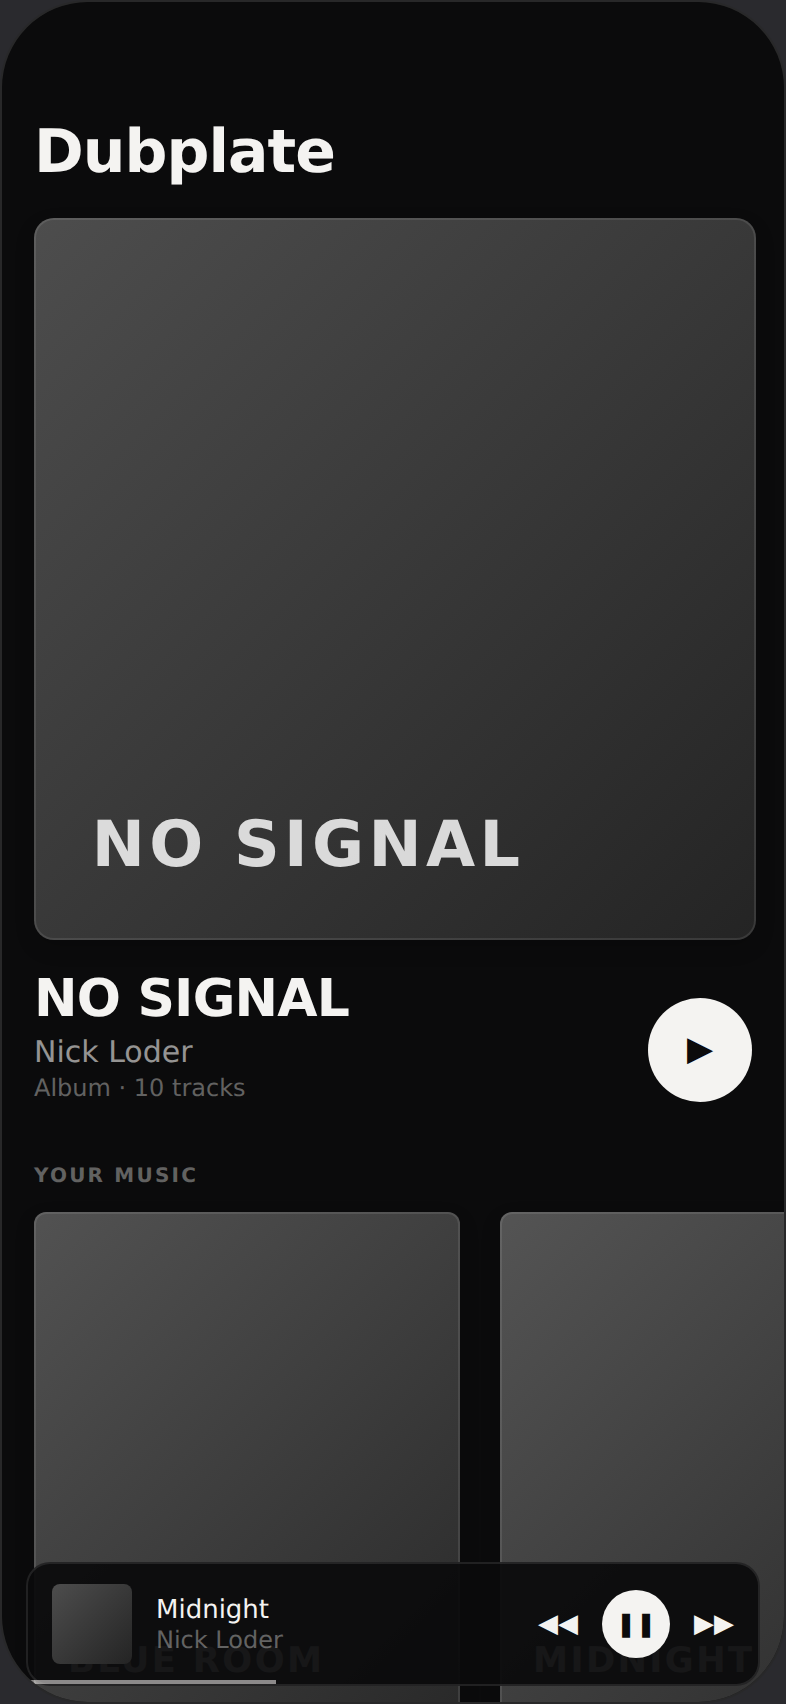
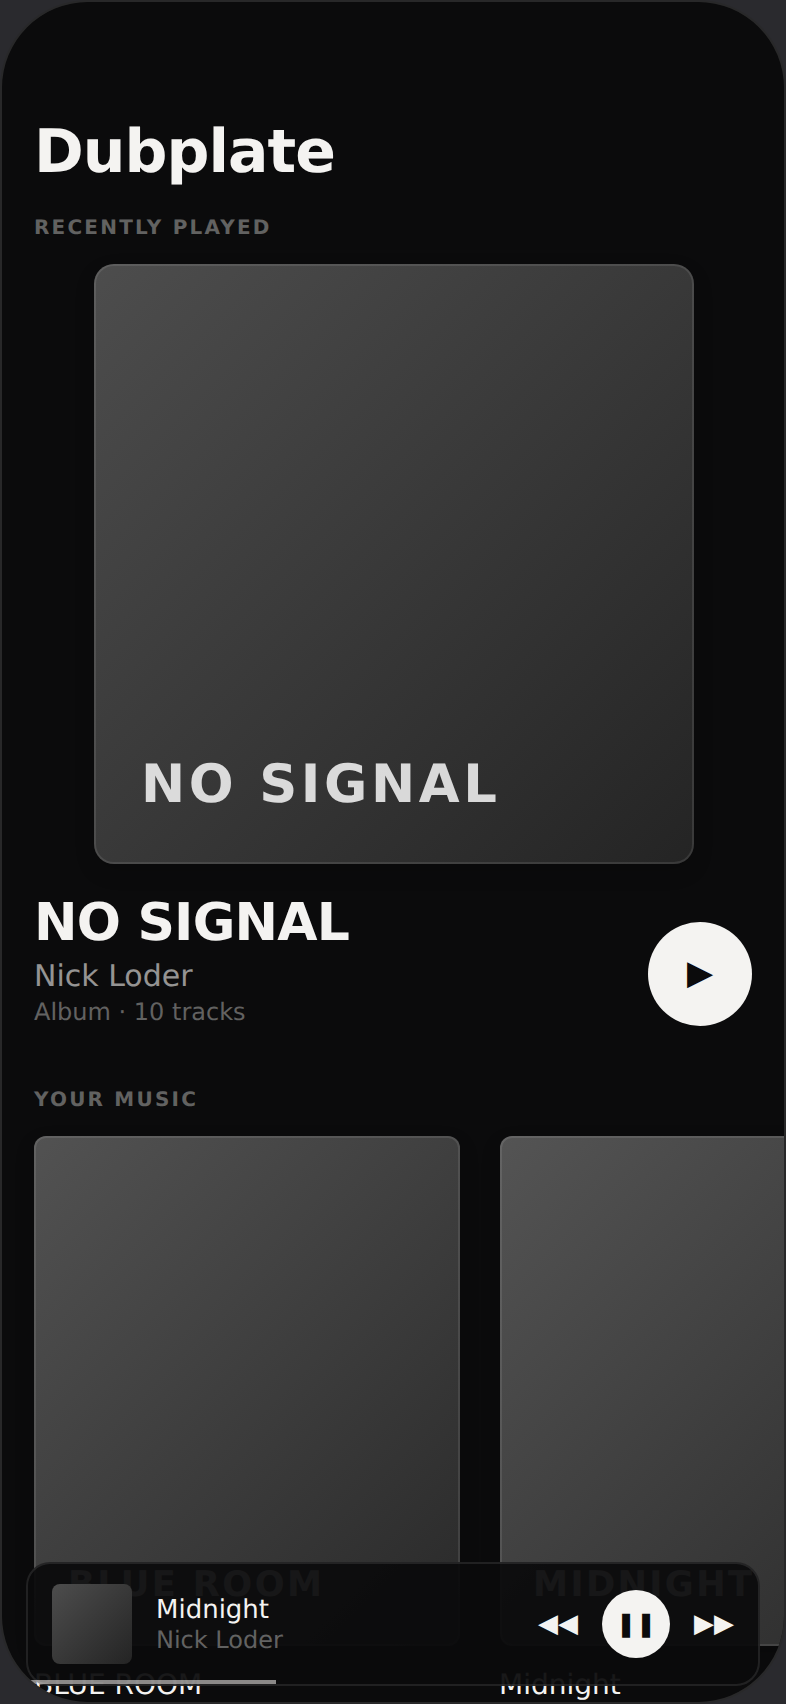
Record critic rounds 1, 3 and 4
What each round found, what was implemented, and — as importantly — what was
rejected and why. Two rounds contradicted each other about whether opening a
release should download it; both were right about different halves, and the
resolution is recorded rather than the disagreement being smoothed over.

Design renderings regenerated to match the changes.

Claude-Session: https://claude.ai/code/session_0156JoqPL7keSXz5f1uKngjE

Changed region(s): [[0.0305, 0.1244, 1.0, 0.7154], [0.0611, 0.9642, 1.0, 1.0]]

diff --git a/Documentation/design/screens.html b/Documentation/design/screens.html
@@ -169,7 +169,9 @@ const sidebar = (active) => `
   <div class="item" style="color:var(--tertiary)"><span class="glyph">+</span>New Release</div>
 </div>`;
 const mini = (t, a) => `
-<div class="mini">
+<div class="mini" style="position:relative">
+  <div style="position:absolute;top:0;left:0;right:0;height:2px;background:var(--hairline)"></div>
+  <div style="position:absolute;top:0;left:0;width:34%;height:2px;background:rgba(244,243,241,0.45)"></div>
   <span style="width:30px;height:30px;border-radius:4px;flex:none;background:linear-gradient(135deg,${shades('NO SIGNAL')[0]},${shades('NO SIGNAL')[1]})"></span>
   <div style="min-width:0"><div style="font-size:13px;font-weight:500">${t}</div>
   <div class="meta">${a}</div></div>
@@ -208,17 +210,23 @@ ${sidebar('Albums')}
           <div class="label">Album</div>
           <div class="display-44">NO SIGNAL</div>
           <div style="font-size:18px;font-weight:500;color:var(--secondary)">Nick Loder</div>
-          <div class="meta">Album · 10 tracks · 2026 · 35 minutes</div>
+          <div class="meta">10 tracks · 2026 · 35 minutes</div>
           <div style="display:flex;gap:12px;margin-top:4px">
             <span class="filled">▶ Play</span><span class="quiet">⤨ Shuffle</span>
           </div>
+        </div>
+      </div>
+      <div style="padding:0 24px 12px">
+        <div style="display:flex;align-items:center;gap:8px;background:var(--sunken);border-radius:8px;
+                    padding:8px 12px;color:var(--secondary);font-size:12px">
+          <span>⌁</span><span>Track 4 is 44.1 kHz after 48 kHz. That join won’t be gapless — re-bounce it to match.</span>
         </div>
       </div>
       <div style="padding:0 24px;overflow:hidden">
         ${NO_SIGNAL.map((t,i) => `<div class="track ${i===5?'sel':''}">
           <span class="num">${i===5?'<span class="bars"><i style="height:4px"></i><i style="height:10px"></i><i style="height:6px"></i></span>':(i+1)}</span>
           <span class="name" style="${i===5?'color:var(--primary)':''}">${t}</span>
-          ${i===5?'<span class="pill">v5 · 4</span>':''}
+          ${i===5?'<span class="pill">4 mixes</span>':''}
           <span class="dur">${DURS[i]}</span></div>`).join('')}
       </div>
     </div>
@@ -244,40 +252,50 @@ ${sidebar('Albums')}
   ${mini('Midnight','Nick Loder')}
 </div>`);
 
-/* 3. Mac versions */
-screen('mac-versions', 'Mac · Versions', 'mac', `
-${sidebar('Albums')}
-<div class="detail" style="position:relative">
-  <div class="toolbar"></div>
-  <div style="padding:32px;opacity:0.25;pointer-events:none">
-    <div class="display-44">NO SIGNAL</div>
-  </div>
-  <div style="position:absolute;inset:0;background:rgba(0,0,0,0.45)"></div>
-  <div style="position:absolute;left:50%;top:50%;transform:translate(-50%,-50%);width:620px;background:var(--raised);
-              border-radius:14px;padding:32px;display:flex;flex-direction:column;gap:24px;
-              box-shadow:0 24px 60px rgba(0,0,0,0.5)">
-    <div style="display:flex;align-items:flex-start">
-      <div><div class="label">Versions</div><div class="display-22" style="margin-top:2px">Midnight</div></div>
-      <div style="flex:1"></div><span class="quiet">Done</span>
+/* 3. Mac versions — a pane of the inspector, so the transport stays reachable */
+const versionRow = (n, l, d, src, current) => `
+  <div style="display:flex;align-items:flex-start;gap:10px;padding:8px 10px;border-radius:8px;
+              ${current ? 'background:var(--sunken)' : ''}">
+    <span style="width:20px;text-align:center;color:${current ? 'var(--primary)' : 'var(--secondary)'};font-size:11px">▶</span>
+    <div style="min-width:0;flex:1">
+      <div><span class="meta" style="margin-right:6px;color:${current ? 'var(--primary)' : 'var(--tertiary)'}">${n}</span><span class="row-title">${l}</span></div>
+      <div class="meta" style="margin-top:1px">${d}</div>
+      <div class="meta" style="margin-top:1px;opacity:0.8">${src}</div>
     </div>
-    <div>
-      <div class="label" style="margin-bottom:8px">Current</div>
-      <div style="display:flex;align-items:center;gap:12px;background:var(--sunken);border-radius:8px;padding:8px 12px">
-        <span style="width:22px;text-align:center">▶</span>
-        <div><div><span class="meta" style="margin-right:8px">v5</span><span class="row-title">Mix 5</span></div>
-          <div class="meta" style="margin-top:1px">3:42 · 24-bit / 48 kHz · -10.8 LUFS</div></div>
-        <div style="flex:1"></div><span style="color:var(--secondary)">⋯</span>
+    ${current ? '' : '<span class="quiet" style="height:24px;font-size:11px;padding:0 10px">Make Current</span>'}
+    <span style="color:var(--secondary)">⋯</span>
+  </div>`;
+screen('mac-versions', 'Mac · Mixes (inspector pane)', 'mac', `
+${sidebar('Albums')}
+<div class="detail">
+  <div class="toolbar"></div>
+  <div style="display:flex;flex:1;min-height:0">
+    <div style="flex:1;display:flex;flex-direction:column;min-width:0;padding:32px">
+      <div class="display-44">NO SIGNAL</div>
+      <div class="meta" style="margin-top:8px">10 tracks · 2026 · 35 minutes</div>
+      <div style="margin-top:24px">
+        ${NO_SIGNAL.slice(0,7).map((t,i) => `<div class="track ${i===5?'sel':''}">
+          <span class="num">${i===5?'<span class="bars"><i style="height:4px"></i><i style="height:10px"></i><i style="height:6px"></i></span>':(i+1)}</span>
+          <span class="name">${t}</span>${i===5?'<span class="pill" style="background:var(--primary);color:var(--ground)">4 mixes</span>':''}
+          <span class="dur">${DURS[i]}</span></div>`).join('')}
       </div>
     </div>
-    <div>
-      <div class="label" style="margin-bottom:8px">Previous</div>
-      ${[['v4','Mix 4','3:41 · 24-bit / 48 kHz'],['v3','Mix 3','3:44 · 24-bit / 48 kHz'],['v2','Rough','3:52 · 24-bit / 44.1 kHz']]
-        .map(([n,l,d]) => `<div style="display:flex;align-items:center;gap:12px;padding:8px 12px">
-          <span style="width:22px;text-align:center;color:var(--secondary)">▶</span>
-          <div><div><span class="meta" style="margin-right:8px">${n}</span><span class="row-title">${l}</span></div>
-            <div class="meta" style="margin-top:1px">${d}</div></div>
-          <div style="flex:1"></div><span class="quiet" style="height:26px;font-size:12px">Make Current</span>
-          <span style="color:var(--secondary)">⋯</span></div>`).join('<div class="rule"></div>')}
+    <div class="inspector" style="width:340px;padding:0;gap:0">
+      <div style="padding:12px;display:flex;gap:2px">
+        <span style="flex:1;text-align:center;font-size:12px;padding:4px;border-radius:6px;color:var(--secondary)">Track</span>
+        <span style="flex:1;text-align:center;font-size:12px;padding:4px;border-radius:6px;background:var(--sunken)">Mixes (4)</span>
+      </div>
+      <div class="rule"></div>
+      <div style="padding:16px;display:flex;flex-direction:column;gap:16px">
+        <div><div class="label" style="margin-bottom:6px">Current</div>
+          ${versionRow('v5','Mix 5','Yesterday · 3:42 · 24-bit / 48 kHz · -10.8 LUFS','NO SIGNAL Bounces/06 Midnight mix 5.wav', true)}</div>
+        <div><div class="label" style="margin-bottom:6px">Previous</div>
+          ${versionRow('v4','Mix 4','3 days ago · 3:41 · 24-bit / 48 kHz','NO SIGNAL Bounces/06 Midnight mix 4.wav', false)}
+          <div class="rule" style="margin:2px 10px"></div>
+          ${versionRow('v3','Mix 3','last week · 3:44 · 24-bit / 48 kHz','NO SIGNAL Bounces/06 Midnight mix 3.wav', false)}
+          <div class="rule" style="margin:2px 10px"></div>
+          ${versionRow('v2','Rough','2 weeks ago · 3:52 · 24-bit / 44.1 kHz','Ideas/midnight rough.wav', false)}</div>
+      </div>
     </div>
   </div>
   ${mini('Midnight','Nick Loder')}
@@ -307,7 +325,8 @@ screen('phone-home', 'iPhone · Home', 'phone', `
 <div style="padding:16px 16px 0;height:100%;display:flex;flex-direction:column">
   <div style="height:44px"></div>
   <div class="display-30" style="margin-bottom:16px">Dubplate</div>
-  ${art('NO SIGNAL', 361, 10)}
+  <div class="label" style="margin-bottom:12px">Recently Played</div>
+  <div style="display:flex;justify-content:center">${art('NO SIGNAL', 300, 10)}</div>
   <div style="display:flex;align-items:flex-end;margin-top:16px">
     <div><div class="display-26">NO SIGNAL</div>
       <div style="font-size:15px;color:var(--secondary);margin-top:2px">Nick Loder</div>
@@ -334,14 +353,14 @@ screen('phone-home', 'iPhone · Home', 'phone', `
 /* 6. Phone release */
 screen('phone-release', 'iPhone · Release', 'phone', `
 <div style="padding:0 16px;height:100%;overflow:hidden;display:flex;flex-direction:column">
-  <div style="height:52px;display:flex;align-items:center;justify-content:center;font-size:15px;font-weight:600">NO SIGNAL</div>
+  <div style="height:52px;display:flex;align-items:center;padding-left:4px;color:var(--secondary)">‹</div>
   <div style="display:flex;flex-direction:column;align-items:center;gap:16px;margin-top:8px">
     ${art('NO SIGNAL', 260, 10)}
     <div style="text-align:center">
       <div class="label">Album</div>
       <div class="display-30" style="margin-top:4px">NO SIGNAL</div>
       <div style="font-size:16px;font-weight:500;color:var(--secondary);margin-top:4px">Nick Loder</div>
-      <div class="meta" style="margin-top:4px">Album · 10 tracks · 2026 · 35 minutes</div>
+      <div class="meta" style="margin-top:4px">10 tracks · 2026 · 35 minutes</div>
     </div>
     <div style="display:flex;gap:12px"><span class="filled">▶ Play</span><span class="quiet">⤨ Shuffle</span></div>
   </div>
@@ -349,7 +368,7 @@ screen('phone-release', 'iPhone · Release', 'phone', `
     ${NO_SIGNAL.slice(0,6).map((t,i) => `<div style="display:flex;align-items:center;gap:12px;height:56px;border-bottom:1px solid var(--hairline)">
       <span class="num" style="width:26px">${i===5?'<span class="bars"><i style="height:4px"></i><i style="height:10px"></i><i style="height:6px"></i></span>':(i+1)}</span>
       <span class="name" style="flex:1;font-size:14px;${i===5?'color:var(--primary)':''}">${t}</span>
-      ${i===5?'<span class="pill">v5 · 4</span><span style="color:var(--tertiary);padding:0 8px">⋯</span>':''}
+      ${i===5?'<span class="pill">4 mixes</span><span style="color:var(--tertiary);padding:0 8px">⋯</span>':''}
       <span class="dur">${DURS[i]}</span></div>`).join('')}
   </div>
 </div>`);

diff --git a/Documentation/CRITIC_REVIEWS.md b/Documentation/CRITIC_REVIEWS.md
@@ -23,3 +23,199 @@ renderings redrawn from the design system's own values. `Tools/swiftcheck.py` an
 mechanical verification available. See `QA.md`.
 
 ---
+
+## Round 1 — Product
+
+> *You are a ruthless consumer product leader reviewing Dubplate. Evaluate whether
+> this actually solves the stated producer problem. Identify unnecessary features,
+> missing workflows, friction, confusing terminology and anything that weakens the
+> core promise: "Hear your music like it's already out." Do not be polite. Prioritize
+> issues by severity.*
+
+The reviewer returned seven severe findings, thirteen major, six minor, a delete
+list and a table of copy it judged off-voice. The summary it ended on was fair and
+uncomfortable: *"Until pressing Play on the phone reliably plays the record the Mac
+just made, nothing else in this product matters — and right now the code path for
+that moment skips the track and shows an apology."*
+
+### Implemented
+
+| Finding | What was wrong | What changed |
+| --- | --- | --- |
+| **S1** A release could never be renamed | `LibraryStore.update(release:)` had no callers, and the fast path — dropping a folder on the library — named the record after the folder, permanently | Title and artist are `TextField`s in the release header on the Mac, committed on submit and on focus loss |
+| **S2** Play on the phone never downloaded | `startCurrentItem` reported `.notDownloadedYet` and advanced, so a freshly synced album skipped every track in turn | Playback holds on the track, asks for the file, and continues when it lands. A line says so. `AppServices.fetchAndResume` |
+| **S3** Availability was per-device but synced | `availabilityRaw` was a stored, mirrored property, so the phone told the Mac its own master was unavailable — and it flapped every cycle | `localPresence`/`transferState` are `@Transient`; `MediaAvailability` establishes them by looking at the disk |
+| **S4** "Remove from Release" destroyed every mix | Wired straight to `delete(track:)`, no confirmation | Split: **Move to Inbox** keeps everything; **Delete Track and Its 4 Mixes…** names the cost and confirms |
+| **S5** Deleting a release leaked into iCloud | `SyncCoordinator.forget(assetIDs:)` had no callers | Deletion returns its asset identifiers and `AppServices.delete(release:)` hands them to sync. Confirmation names the track and mix count |
+| **S6** Checksum dedupe was library-wide | The same master could not appear on two records, and a lost file could not be restored by re-dropping it — which is what the error copy told you to do | Dedupe is scoped to the target; a match elsewhere reuses the file for a second version; a match whose bytes are gone is treated as a repair |
+| **S7** Folders could not be dropped | Every handler filtered on an audio extension, which a directory URL does not have | `DroppedFiles.expand` walks two levels, skips packages, sorts naturally. Tested |
+| **M1** Two settings wired to nothing | "Download over cellular" did not restrain anything | `NetworkPath` + `SyncCoordinator.canDownloadNow` make it real; "Keep recently played offline" was deleted |
+| **M2** Instrument names as revision markers | `05 Bass.wav` became a nameless track five, and a folder of instrumentals replaced every vocal mix at full confidence | `descriptorWords` only strip when a real word survives; `variantWords` are added as a version but never made current |
+| **M4** The core loop was a modal | Dropping a bounce on a track cost a sheet and two clicks, every time | An unambiguous drop lands, becomes current and plays. The sheet is for the ambiguous case |
+| **M6** Gapless failures were detected and never mentioned | `lastTransitionWasGapless` had no readers | A line above the sequence: which track, which rate, and what to do about it |
+| **M7** The ordering signal was decided by an always-true test | `dropIndex` is `urls.enumerated()`, so `.filename` could never be chosen | Multi-file drops sort by filename, and the sheet says so |
+| **M8** A stray image replaced the cover | Instant and destructive | Confirmed, naming the file, saying the old cover is deleted |
+| **M9** Only the first file of a track drop was used | The rest were discarded after a success animation | All of them are added, in version order |
+| **M10** Lock Screen artwork went stale | `invalidateArtwork` had no callers | Changing a cover invalidates both caches through `LibraryStore.artworkDidChange` |
+| **M11** The inspector's track number reverted | Every repair renumbers from list position | Read-only, with a tooltip pointing at the drag list |
+| **M12** "Remove Download" silently no-opped | It refuses when nothing is uploaded, and said nothing | A fourth state: **Only Copy Is Here**, disabled, explaining why |
+| **M13** A full iCloud was a log line | `DubplateError.storageFull` was never constructed | Raised through the transfer service into the coordinator's error state |
+| **N1–N4, N6** | Sidebar "Play" navigated; feature credits were parsed and thrown away; the retry button could never appear; `Image(systemName: "")`; media excluded from Time Machine for local-only users | All fixed |
+
+### Deleted, as recommended
+
+The phone's file importer (it contradicted the product's own sentence and put files
+where the phone could not show them), the "Download Quality" row (a setting whose
+content was "this is not a setting" — the sentence moved to About), the editable
+disc-number field, and four unused columns from a schema that is mirrored to
+CloudKit, where an unused column is permanent.
+
+### Rejected
+
+**"Delete two of the three preview modes."** The reviewer had not been given the
+brief, which specifies Stream, Gallery and Motion as a deliverable. Its underlying
+observation was right, though, and was the real bug: Motion was built around a track
+canvas that nothing could set — `setCanvas(from:for:)` had no callers and the drop
+handler rejected `.mov` outright. Dropping a video on a track now sets that track's
+canvas, dropping one on a release sets the release's motion artwork, and the stored
+loop trim is applied.
+
+**"Delete the waveform pipeline."** Also right that it was dead — peaks were measured
+on every import, stored, and drawn nowhere. Wired up rather than removed: the shape
+of a mix is read faster than a number, and the data was already being paid for.
+
+---
+
+## Round 3 — Producer workflow
+
+> *You are a professional record producer who works daily in Pro Tools, Logic and
+> Ableton. You receive new bounces constantly and test albums repeatedly away from
+> the studio. Review Dubplate purely as a working producer. Find every unnecessary
+> click and every missing workflow.*
+
+This round was asked to count interactions for six specific tasks. Its verdicts:
+
+| Task | Before | After |
+| --- | --- | --- |
+| 8 bounces → sequenced album with artwork | 4 + a Finder trip, because folders were refused and the two wells filtered each other out | 3, folder in one drag, one well that routes by type |
+| New bounce of track 4 becomes current and plays | 3, and the third was needed because nothing played | 1 |
+| Yesterday's mix, then back to today's | 5, behind a modal that hid the transport, with no dates to identify "yesterday" | 2, in the inspector, with dates |
+| Studio Mac → phone | 3 taps and a blind wait | 1 tap; play fetches what it needs |
+| Reordering ten tracks | 1 drag per move | unchanged — it was already right |
+| Which file on disk a version came from | 4 clicks, and the answer was a UUID under a shard directory | 0 beyond opening the list; the row shows `Bounces/06 Midnight mix 5.wav` |
+
+### Implemented beyond round 1's overlap
+
+- **Space was bound twice** — on the menu command and on the play button, which sits
+  in the player bar on every Mac screen. Typing `NO SIGNAL` into a title toggled
+  playback. The button's shortcut is gone.
+- **A `Button` nested inside another `Button`'s label** in the phone's version picker
+  and on the home screen. On iOS the inner control is unreliable, and it was
+  "Set as Current" — the only committing action the phone has.
+- **Auditioning a mix of a track that was not playing replaced the whole queue** with
+  a single item, so the record stopped at the end of it. `AppServices.audition` now
+  swaps in place when the track is already queued.
+- **Versions carried no date anywhere**, though the model had two and
+  `Formatting.relativeDate` existed with no callers.
+- **The version list was modal**, so the scrubber and transport were unreachable
+  during exactly the comparison they exist for. It is a pane of the inspector.
+- **Downloads covered only the current mix**, so A/B was impossible offline — which
+  is most of what the phone is for.
+- **The Inbox had no exit** — `move(track:to:)` had no callers.
+- **The new-release sheet overrode an explicitly chosen release type** after every
+  drop.
+- **The track row showed the current mix, not the playing one**, so you could walk
+  away believing the record now sounded like what you had just auditioned.
+- **Version notes were rendered and could never be written** — `annotate` had no
+  callers. Now behind "Add Note…".
+- **The loudness setting only affected files imported afterwards.**
+
+### Its trust verdict, kept as a standing test
+
+> *"What is not trustworthy is the layer where a producer's hand meets it:
+> destructive actions with no confirmation and no undo, and non-destructive actions
+> that silently do nothing. Both failures teach the same lesson, which is not to
+> leave anything in Dubplate that isn't also somewhere else."*
+
+Every destructive action now confirms and names what it costs, and every drop
+reports what it did — including doing nothing.
+
+---
+
+## Round 4 — Engineering
+
+> *You are a principal Apple platforms engineer. Review this codebase for
+> architecture problems, concurrency issues, sync bugs, memory problems, media
+> playback edge cases, CloudKit mistakes, persistence risks and maintainability
+> issues. Assume this app may eventually have tens of thousands of users.*
+
+The most valuable round. Seven severe findings, seventeen major, twelve minor, and a
+separate list of things that would not compile.
+
+### The four that would have shipped as user-visible failures
+
+**Every seek advanced to the next track.** `AVAudioPlayerNode.stop()` fires the
+completion handler of everything it had scheduled. `seek` calls `start`, which stops
+the node and re-schedules *the same item identifier*; the stale completion then
+arrived, matched the new entry, and reported the track as finished. Scrubbing to 0:30
+of track 3 started track 4. Completions now carry a per-scheduling generation token.
+
+**Repeat-one played once and went silent.** `advance()` returns `true` without moving,
+and the controller then took the "already rendering" branch and scheduled nothing —
+while the transport went on claiming to play.
+
+**A failed CloudKit upload was recorded as a success.** `modifyRecords` does not throw
+on per-record failure; it returns per-record results, which were discarded with `_ =`.
+Quota-exceeded therefore meant "uploaded", and **"Remove Download" would then delete
+the only copy of a master.** This is the single most dangerous defect either round
+found.
+
+**Four relationships had no inverse.** CloudKit mirroring refuses such a model, the
+store fails to open, and `containerWithFallback` would have turned that into a quiet
+downgrade to a local-only library where the account looked fine and nothing ever
+synced. `swiftcheck.py` now refuses an unpaired relationship; the check was verified
+by removing one and confirming it fires.
+
+### Also implemented
+
+Account switches and zone deletions (the old change token was reused against a
+different database, and "uploaded" flags referred to records the new account cannot
+see); launch blocking on uploading the whole library; the index overwriting its own
+uploaded flags so one bounce re-uploaded a twenty-track album; an unbounded artwork
+cache (240 covers at 2048px is a gigabyte of bitmaps); Now Playing republished five
+times a second; analysis fetching every unanalysed asset to take forty and then
+stopping silently; loudness re-summing a 19,200-frame window every 4,800 samples;
+media bytes deleted before the row pointing at them was committed; models mutated
+after an `await` with no check that a merge had deleted them; a zero-frame file
+re-entering `start()` from inside `start()`; a route change while paused restarting
+from 0:00; `NWPathMonitor.currentPath` read before the first update, so the first
+download after every launch refused itself.
+
+### The compile-risk list
+
+Four of the nine were acted on directly: the `FailedRecordSave` parameter typed as a
+tuple; `didSet` observers on stored properties of an `@Observable` class (rewritten as
+computed properties over `UserDefaults`, because a preference that silently fails to
+persist is worse than none); `MediaStore` declaring `Sendable` while storing a
+`FileManager`; and an optional-chained relationship in a `#Predicate`, which SwiftData
+translates unreliably. `MainActor.assumeIsolated` in notification observers was
+replaced with a `Task { @MainActor in }` hop, and the `deinit` that touched
+main-actor state was removed.
+
+The remaining strict-concurrency warnings — capturing `self` in an AVFoundation
+completion, and `@MainActor` closures assigned to non-isolated properties — are real
+and are the substance of the Swift 6 migration recorded in `ARCHITECTURE.md`. They
+are warnings under the Swift 5 language mode this ships in, and fixing them properly
+means restructuring the callback boundaries, which is its own change.
+
+### Rejected
+
+**"`open(release:)` should not download."** Round 1 had asked for the opposite. Round
+4 was right about the mechanism and round 1 right about the moment: browsing ten
+records on a phone must not pull ten albums, but pressing play must not skip. Opening
+a release now only repairs and looks; audio arrives when someone presses play, or asks
+for the record to be held offline. Both complaints are satisfied by separating them.
+
+**"Delete `Release.watchFolderBookmark`."** Correct that it is unused. Kept, because
+the alternative is a schema migration on a mirrored store to add one optional
+column later.
